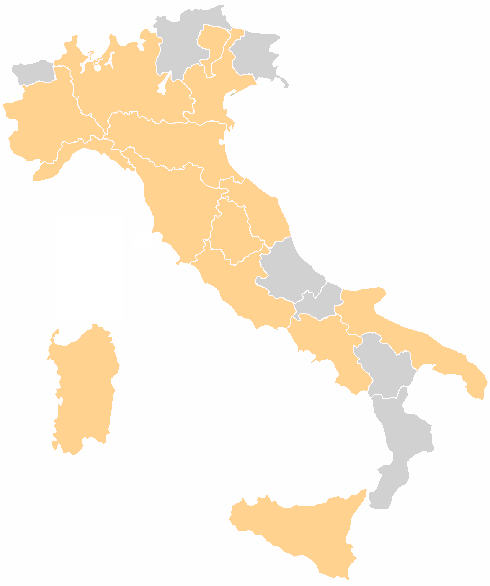
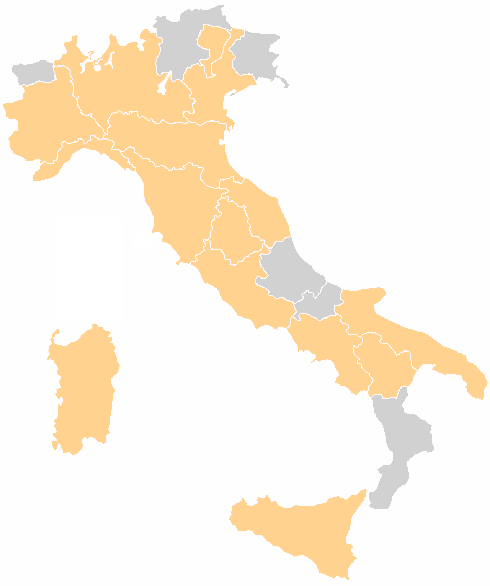
Basilicata toegevoegd aan landkaart Italissima

Changed region(s): [[0.7041, 0.5529, 0.8571, 0.6758]]

diff --git a/content/bestemmingen_italissima.html b/content/bestemmingen_italissima.html
@@ -28,7 +28,6 @@ $img_style="width:490px;height:586px;";
 $landkaart_hoverkleur="ff9900";
 /*
 $coords[apulie]="386,294,380,300,375,303,374,307,376,311,381,316,399,325,428,335,435,340,443,346,465,356,467,361,476,366,482,373,488,383,486,386,484,390,483,400,477,398,470,393,466,387,467,385,468,385,465,380,461,375,445,374,438,372,433,370,437,365,430,364,424,364,421,366,418,371,413,366,412,357,410,352,406,350,401,351,397,354,389,345,381,342,383,339,381,335,377,333,372,332,360,336,349,334,348,331,349,329,350,327,347,324,342,321,341,316,339,314,337,312,336,309,336,306,338,306,341,306,345,303,343,299,342,296,344,290,354,292,379,288,384,289,386,294,386,294";
-$coords[basilicaba]="381,338,380,340,379,342,388,345,397,357,402,353,409,353,410,362,411,367,417,372,413,378,409,385,403,384,399,388,397,392,397,397,387,398,382,396,378,394,370,397,369,393,372,386,375,381,373,376,370,374,359,363,361,360,355,353,355,348,358,348,361,344,364,341,363,338,362,337,371,334,377,335,381,338,381,338";
 $coords[calabrie]="407,388,408,395,405,400,402,406,403,409,408,414,415,415,432,426,430,432,434,448,431,451,428,453,426,452,425,451,413,455,408,459,407,464,409,476,406,482,400,486,395,491,392,497,390,501,388,508,381,509,374,508,371,507,370,506,371,504,372,503,370,497,370,494,373,492,377,489,383,476,381,472,378,470,384,466,389,464,392,462,394,457,393,452,391,450,388,447,387,443,383,426,378,419,375,413,372,399,374,396,378,396,379,396,383,400,397,400,403,388,407,388,407,388";
 $coords[molise]="342,290,340,297,340,299,343,302,339,304,334,305,335,315,326,317,320,320,311,316,304,313,299,313,298,316,298,318,300,320,294,317,296,314,298,312,296,308,295,305,300,302,303,300,305,298,304,295,303,295,304,293,308,292,312,294,316,300,328,283,334,285,342,290,342,290";
 $coords[friuli venezia]="280,37,274,42,269,49,269,52,279,55,274,59,272,64,273,68,278,67,276,72,277,75,281,77,286,80,289,86,288,88,285,88,286,85,284,81,281,78,276,77,274,78,273,81,261,77,258,77,257,80,254,75,251,73,241,75,238,73,236,69,234,64,235,60,237,57,234,53,230,50,236,42,240,39,245,36,246,31,253,33,262,34,271,35,280,37,280,37";
@@ -53,6 +52,9 @@ $coords[195]="244,31,244,35,235,41,231,45,228,50,232,53,235,57,233,60,232,64,235
 
 # emilia-romagna
 $coords[210]="126,114,127,115,129,116,130,114,131,113,132,115,134,113,137,113,138,117,144,118,146,120,149,122,152,120,154,123,158,125,160,123,164,122,166,123,169,125,187,125,187,123,189,123,200,127,212,123,218,123,225,124,226,123,224,140,220,139,219,142,219,145,221,145,225,145,226,153,228,162,234,170,244,179,242,183,235,180,234,179,235,177,233,176,221,179,219,181,219,184,218,187,216,188,206,184,203,180,202,177,203,173,205,170,199,166,194,164,190,162,186,163,182,167,184,169,182,168,176,168,174,167,170,170,166,166,163,165,156,165,150,159,143,157,136,152,135,149,133,146,130,146,123,151,113,149,114,147,116,144,114,140,110,139,105,138,108,135,109,129,110,128,112,126,110,122,110,117,113,114,119,112,121,114,124,116,125,115,126,114,126,114";
+
+# Basilicata
+$coords[216]="381,338,380,340,379,342,388,345,397,357,402,353,409,353,410,362,411,367,417,372,413,378,409,385,403,384,399,388,397,392,397,397,387,398,382,396,378,394,370,397,369,393,372,386,375,381,373,376,370,374,359,363,361,360,355,353,355,348,358,348,361,344,364,341,363,338,362,337,371,334,377,335,381,338,381,338";
 
 echo "<div id=\"landkaartklikbaar\">";
 #echo "<h2>Kaart ".htmlentities($themalandinfo["naam"])."</h2>";

diff --git a/content/index_italissima.html b/content/index_italissima.html
@@ -36,8 +36,8 @@ echo "</div>"; # afsluiten hoofdpagina_blok
 
 echo "<div id=\"hoofdpagina_midden\">";
 
-echo "<div id=\"hoofdpagina_kaart\" onclick=\"document.location.href='".$vars["path"]."bestemmingen.php'\" title=\"Zoeken op kaart\">";
-echo "<h2>Zoeken op kaart</h2>";
+echo "<div id=\"hoofdpagina_kaart\" onclick=\"document.location.href='".$vars["path"]."bestemmingen.php'\" title=\"Zoeken per regio\">";
+echo "<h2>Zoeken per regio</h2>";
 echo "<img src=\"".$vars["path"]."pic/italissima-kaart.gif\" width=\"167\" height=\"204\" border=\"0\">";
 echo "</div>"; # afsluiten hoofdpagina_kaart
 

diff --git a/inloggen.php b/inloggen.php
@@ -3,6 +3,7 @@
 $boeking_wijzigen=true;
 $robot_noindex=true;
 $vars["verberg_lastacc"]=true;
+$vars["verberg_zoekenboeklinks"]=true;
 
 include("admin/vars.php");
 
